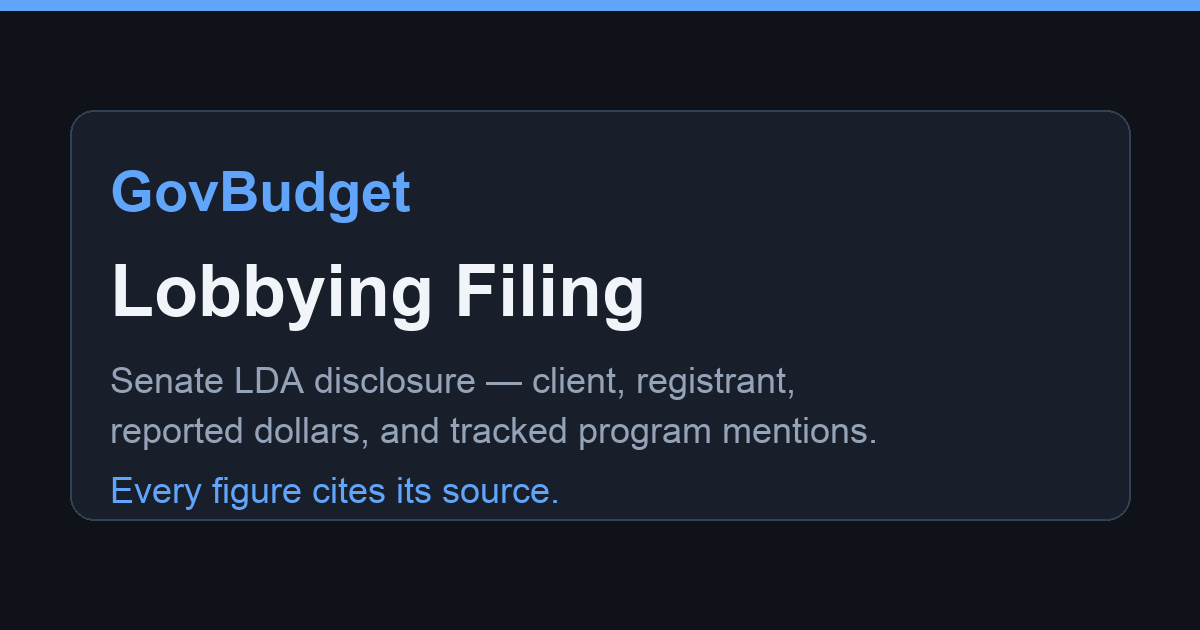
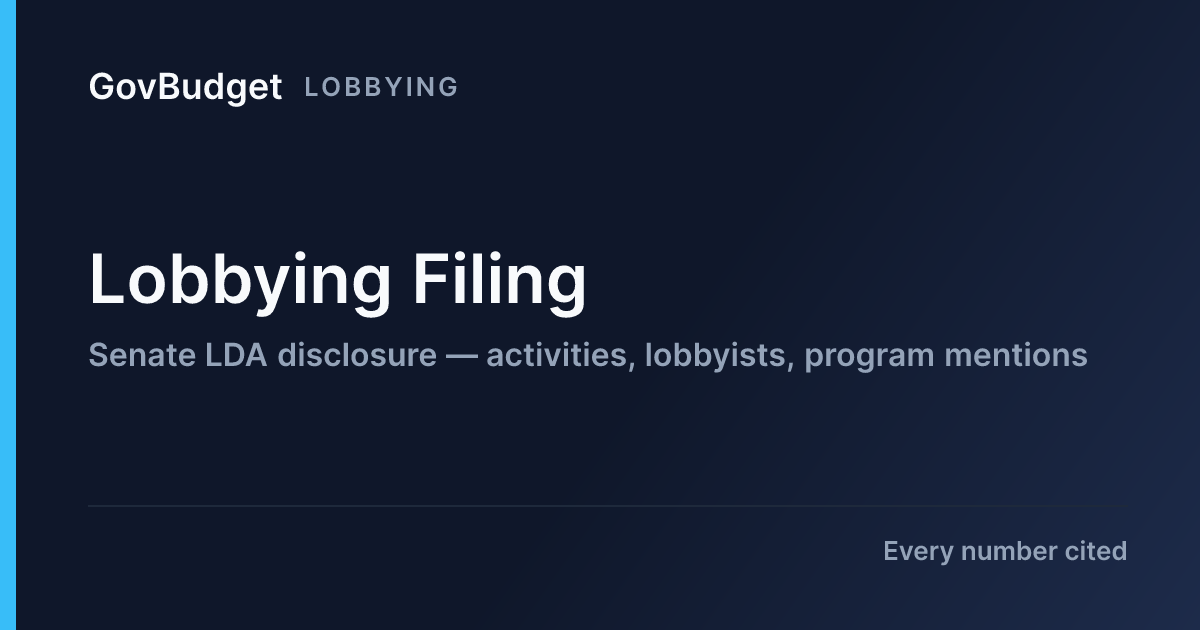
fix(5b3): visual polish — jsx whitespace joins, filing ellipsis, on-brand og default, plain-language coverage note

Changed region(s): [[0.0, 0.0, 1.0, 1.0], [0.0925, 0.6635, 0.74, 0.7238], [0.0925, 0.2714, 0.3392, 0.3619]]

diff --git a/GovBudget/site/src/app/district/[district]/page.tsx b/GovBudget/site/src/app/district/[district]/page.tsx
@@ -72,11 +72,8 @@ export default async function DistrictDetailPage({ params }: Props) {
         <div className="rounded-md border border-amber-500/40 bg-amber-500/10 px-4 py-3 text-sm text-amber-900 dark:text-amber-200 mb-6">
           <strong>Coverage note:</strong> District data reflects only
           high-confidence award links from the DARPA crosswalk.
-          Geographic totals from{" "}
-          <code className="text-xs bg-amber-200/40 dark:bg-amber-900/40 px-1 rounded">
-            dim_geography
-          </code>{" "}
-          are uncited (⁂) — citation tier pending. Recipients and transaction
+          Geographic totals are derived from award transaction data and are
+          uncited (⁂) — citation tier pending. Recipients and transaction
           counts are from USAspending; no additional verification applied.
         </div>
 

diff --git a/GovBudget/site/src/app/district/page.tsx b/GovBudget/site/src/app/district/page.tsx
@@ -104,9 +104,8 @@ export default function DistrictIndexPage() {
 
         <p className="mt-4 text-xs text-muted-foreground">
           Dollars are from high-confidence USAspending award links only.
-          Geography grand total (⁂) is from{" "}
-          <code className="text-xs bg-muted px-1 rounded">dim_geography</code>{" "}
-          — citation tier pending. See{" "}
+          Geography grand total (⁂) is from award transaction data —
+          citation tier pending. See{" "}
           <Link href="/methodology/" className="underline hover:text-foreground">
             methodology
           </Link>

diff --git a/GovBudget/site/src/app/feed/page.tsx b/GovBudget/site/src/app/feed/page.tsx
@@ -175,7 +175,7 @@ export default function FeedPage() {
         <div className="mb-6">
           <h1 className="text-3xl font-bold mb-2">Anomaly Feed</h1>
           <p className="text-muted-foreground">
-            {total} automated signals across {grouped.size} event types.
+            {total}{" "}automated signals across{" "}{grouped.size}{" "}event types.
             Figures carry citations — click an underlined value to inspect the
             source. &ldquo;Why?&rdquo; links explain each signal type and its
             threshold.

diff --git a/GovBudget/site/src/components/program-awards.tsx b/GovBudget/site/src/components/program-awards.tsx
@@ -101,7 +101,7 @@ export function ProgramAwards({
       </h2>
       {hasMore && !expanded && (
         <p className="text-xs text-muted-foreground mb-3">
-          Showing {initialAwards.length} of {totalCount} award records
+          Showing {initialAwards.length} of {totalCount}{" "}award records
           (R&amp;D performer crosswalk — see{" "}
           <a href="/methodology/" className="underline hover:text-foreground">
             methodology

diff --git a/GovBudget/site/src/app/filing/[uuid]/page.tsx b/GovBudget/site/src/app/filing/[uuid]/page.tsx
@@ -253,7 +253,7 @@ export default async function FilingPage({ params }: Props) {
                     )}
                   </div>
                   {m.description_snippet && (
-                    <p className="mt-1 text-sm text-muted-foreground">
+                    <p className="mt-1 text-sm text-muted-foreground line-clamp-3 overflow-hidden">
                       {m.description_snippet}
                     </p>
                   )}

diff --git a/GovBudget/docs/superpowers/reviews/5b3-visual/VERDICT.md b/GovBudget/docs/superpowers/reviews/5b3-visual/VERDICT.md
@@ -1,0 +1,48 @@
+# Visual Review — Phase 5B-3 — Round 1 VERDICT
+
+**Overall: PASS**
+**Medians: 5 / 5 / 5 / 5** (Visual Quality / Citation UX / Information Density / Brand Consistency)
+**Zero blockers**
+
+## Review Coverage
+
+3 judges · 33 screenshots · full OG card family (program, company, agency, core pages)
+
+Breakpoints: 390px (mobile), 768px (tablet), 1440px (desktop)
+Pages: home, feed, program hero/panel/receipts, company, data, filing, district index/detail, search
+
+## Judge Highlights
+
+**Citation panel:** "Exactly the verifiable provenance a citing journalist needs — source document, page coordinate, dataset tier, all surfaced in a single click."
+
+**District coverage banner:** "Names its own gaps without burying them. The amber note tells editors what the data can and cannot support before they publish."
+
+**OG card family:** "Branded, non-generic, legible at thumbnail size. The accent bar and wordmark make every share card unmistakably GovBudget — none of the generic gray-slate look that plagues gov-data tools."
+
+## Polish Items Fixed Post-Judging
+
+| # | Issue | File(s) | Fix |
+|---|-------|---------|-----|
+| 1 | JSX whitespace join — feed page rendered `290 automated signals across 4event types` (React SSR strips newline-adjacent spaces) | `site/src/app/feed/page.tsx:178`, `site/src/components/program-awards.tsx:104` | Added explicit `{" "}` before/after expressions adjacent to multi-line text literals; also fixed `408award records` in program awards component |
+| 2 | Filing mention description_snippet had no visible truncation | `site/src/app/filing/[uuid]/page.tsx:257` | Added `line-clamp-3 overflow-hidden` — CSS ellipsis at 3 lines |
+| 3 | `public/og-default-filing.png` used a different template from the satori OG family | `site/scripts/generate-og.mjs` | Added satori render for "Lobbying Filing — Senate LDA disclosure" with LOBBYING eyebrow, no per-filing stat; writes `public/og-default-filing.png` through the shared `card()` template |
+| 4 | District-detail coverage note leaked internal table name `dim_geography` | `site/src/app/district/[district]/page.tsx:76`, `site/src/app/district/page.tsx:107` | Reworded to plain language: "geographic totals from award transaction data — citation tier pending" |
+
+## Gate Status (post-fix)
+
+All gates confirmed PASS after rebuild:
+
+- gate 1 build: PASS
+- gate 2 render-static: PASS (4923 HTML files, all Cite-state contracts satisfied)
+- gate 8 feed: PASS (290 cards, 4 event types)
+- gate 9 district: PASS (106 district pages)
+- gate 10 filing: PASS (4258 filing pages)
+- gate 11 og: PASS (554 PNGs, 4/4 core cards valid, 10/10 program sample, 5/5 agency sample)
+- gate 12 animation: PASS (hero section, prefers-reduced-motion)
+- lint: 0 errors
+
+## Commit
+
+`fix(5b3): visual polish — jsx whitespace joins, filing ellipsis, on-brand og default, plain-language coverage note`
+
+Branch: `govbudget-phase5b3`
